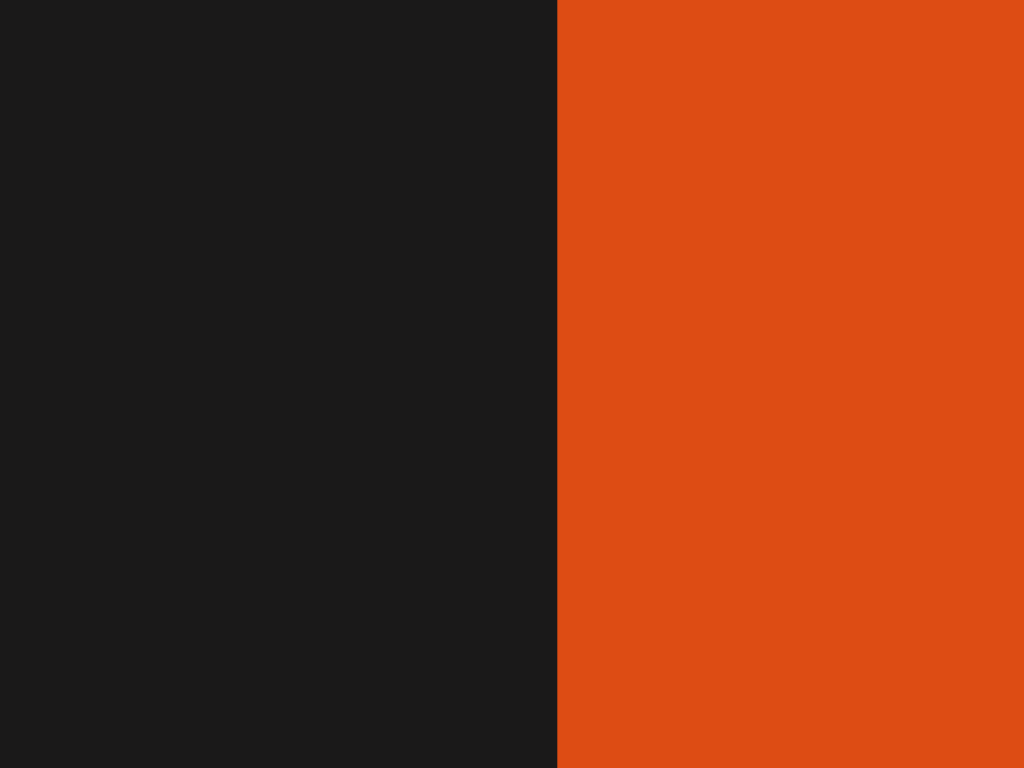
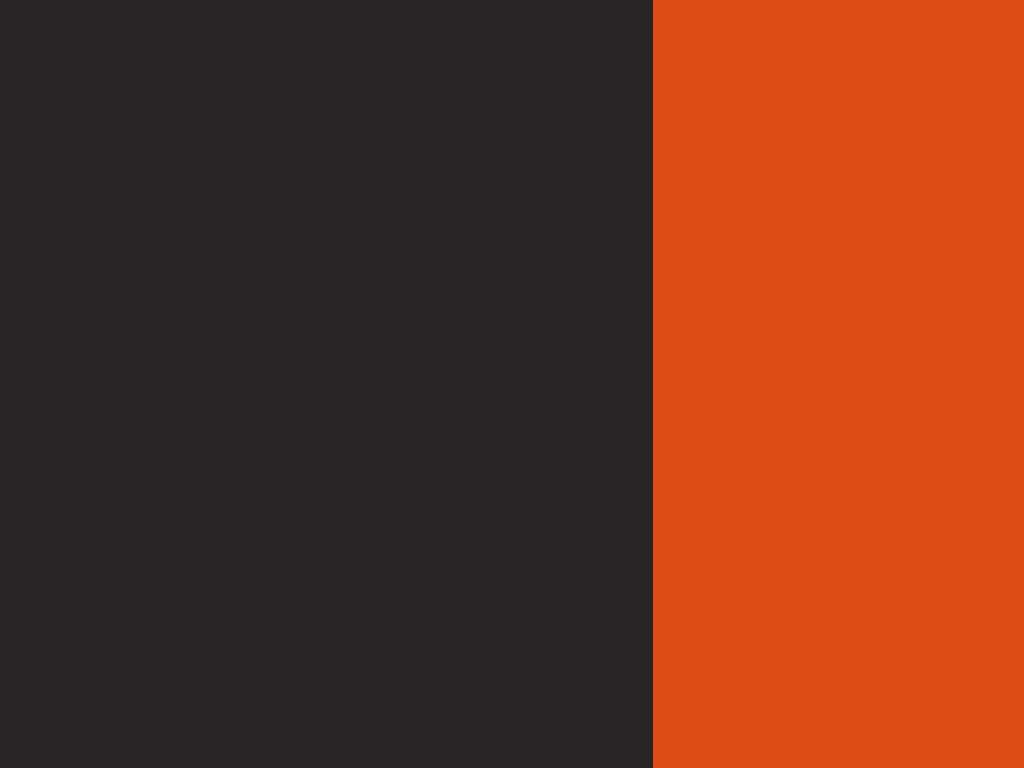
continued to create more consistent colour dependencies

Changed region(s): [[0.5312, 0.0, 0.6562, 1.0]]

diff --git a/src/App.css b/src/App.css
@@ -18,10 +18,16 @@
   src: url('./fonts/VictorMono-Bold.ttf')
 }
 
+@font-face{
+  font-family: 'clash-medium';
+  src: url('./fonts/ClashDisplay-Medium.otf')
+
+}
+
 
 
 html, body{
-  background-color: rgb(26, 25, 25);
+  background-color: #2a2525;
   color: white;
   overflow-x: hidden;
 
@@ -63,11 +69,10 @@ html, body{
 
 .main-graphic{
   width: 100vw;
-  background-color: rgb(112, 112, 112);
   height: 100vh;
 
   display: inline-block;
-  background-image: url(./images/abstract.png);
+  /* background-image: url(./images/abstract.png); */
   background-size: cover;
   background-position: center;
   background-repeat: no-repeat;

diff --git a/src/components/NavBar.tsx b/src/components/NavBar.tsx
@@ -1,5 +1,6 @@
 import React, { useState, useEffect } from 'react';
 import './NavBar.css'
+import './Colours.css'
 
 import {
     Link,
@@ -10,7 +11,7 @@ import ScrollAnimation from 'react-animate-on-scroll';
 function NavBar() {
     return (
 
-        <div className='navbar' >
+        <div className='bg-colour-black navbar' >
             <ul className='navbar-list'>
                 <Link activeClass="active" to="home" spy={true} smooth={true} offset={0} duration={750} >
                     <li className='navbar-item'>Home</li>

diff --git a/public/index.html b/public/index.html
@@ -5,7 +5,7 @@
   <meta charset="utf-8" />
   <link rel="icon" href="%PUBLIC_URL%/favicon.ico" />
   <meta name="viewport" content="width=device-width, initial-scale=1" />
-  <meta name="theme-color" content="#1a1919" />
+  <meta name="theme-color" content="#2a2525" />
   <meta name="description"
     content="Brendan Bell (codethulu) is a software engineer and graphic designer. This is his website." />
   <link rel="apple-touch-icon" href="%PUBLIC_URL%/logo192.png" />

diff --git a/src/components/NavBar.css b/src/components/NavBar.css
@@ -4,7 +4,6 @@
     width: 100%;
     z-index: 50;
     height: 3vh;
-    background-color: rgb(26, 25, 25);
     color: white;
     background-size: contain;
     background-position: bottom;
@@ -45,7 +44,6 @@
     left: 0;
     width: 100%;
     height: 100%;
-    background-color: rgb(26, 25, 25);
     content: "";
     clip-path: polygon(0 0, 100% 0, 100% 80%, 0 80%);
     z-index: -1;

diff --git a/src/components/projectsList.tsx b/src/components/projectsList.tsx
@@ -55,7 +55,7 @@ const projectsList = [
         name: "Investigating security vulnerabilities in Linux",
         year: "2021",
         description: "An investigation into linux security, where I identified possible security errors in a linux filesystem and webserver.",
-        tags: ["linux"],
+        tags: ["linux", "security"],
         image: "security-linux",
     },
     {

diff --git a/src/App.tsx b/src/App.tsx
@@ -50,7 +50,7 @@ export default App;
 
 function Welcome() {
   return (
-    <div className='cube main-graphic'>
+    <div className='cube main-graphic bg-colour-black'>
       <Element name="home" className="element"></Element>
       <div className='cover bg-colour-black cover-clear'></div>
       <TextLogo />
